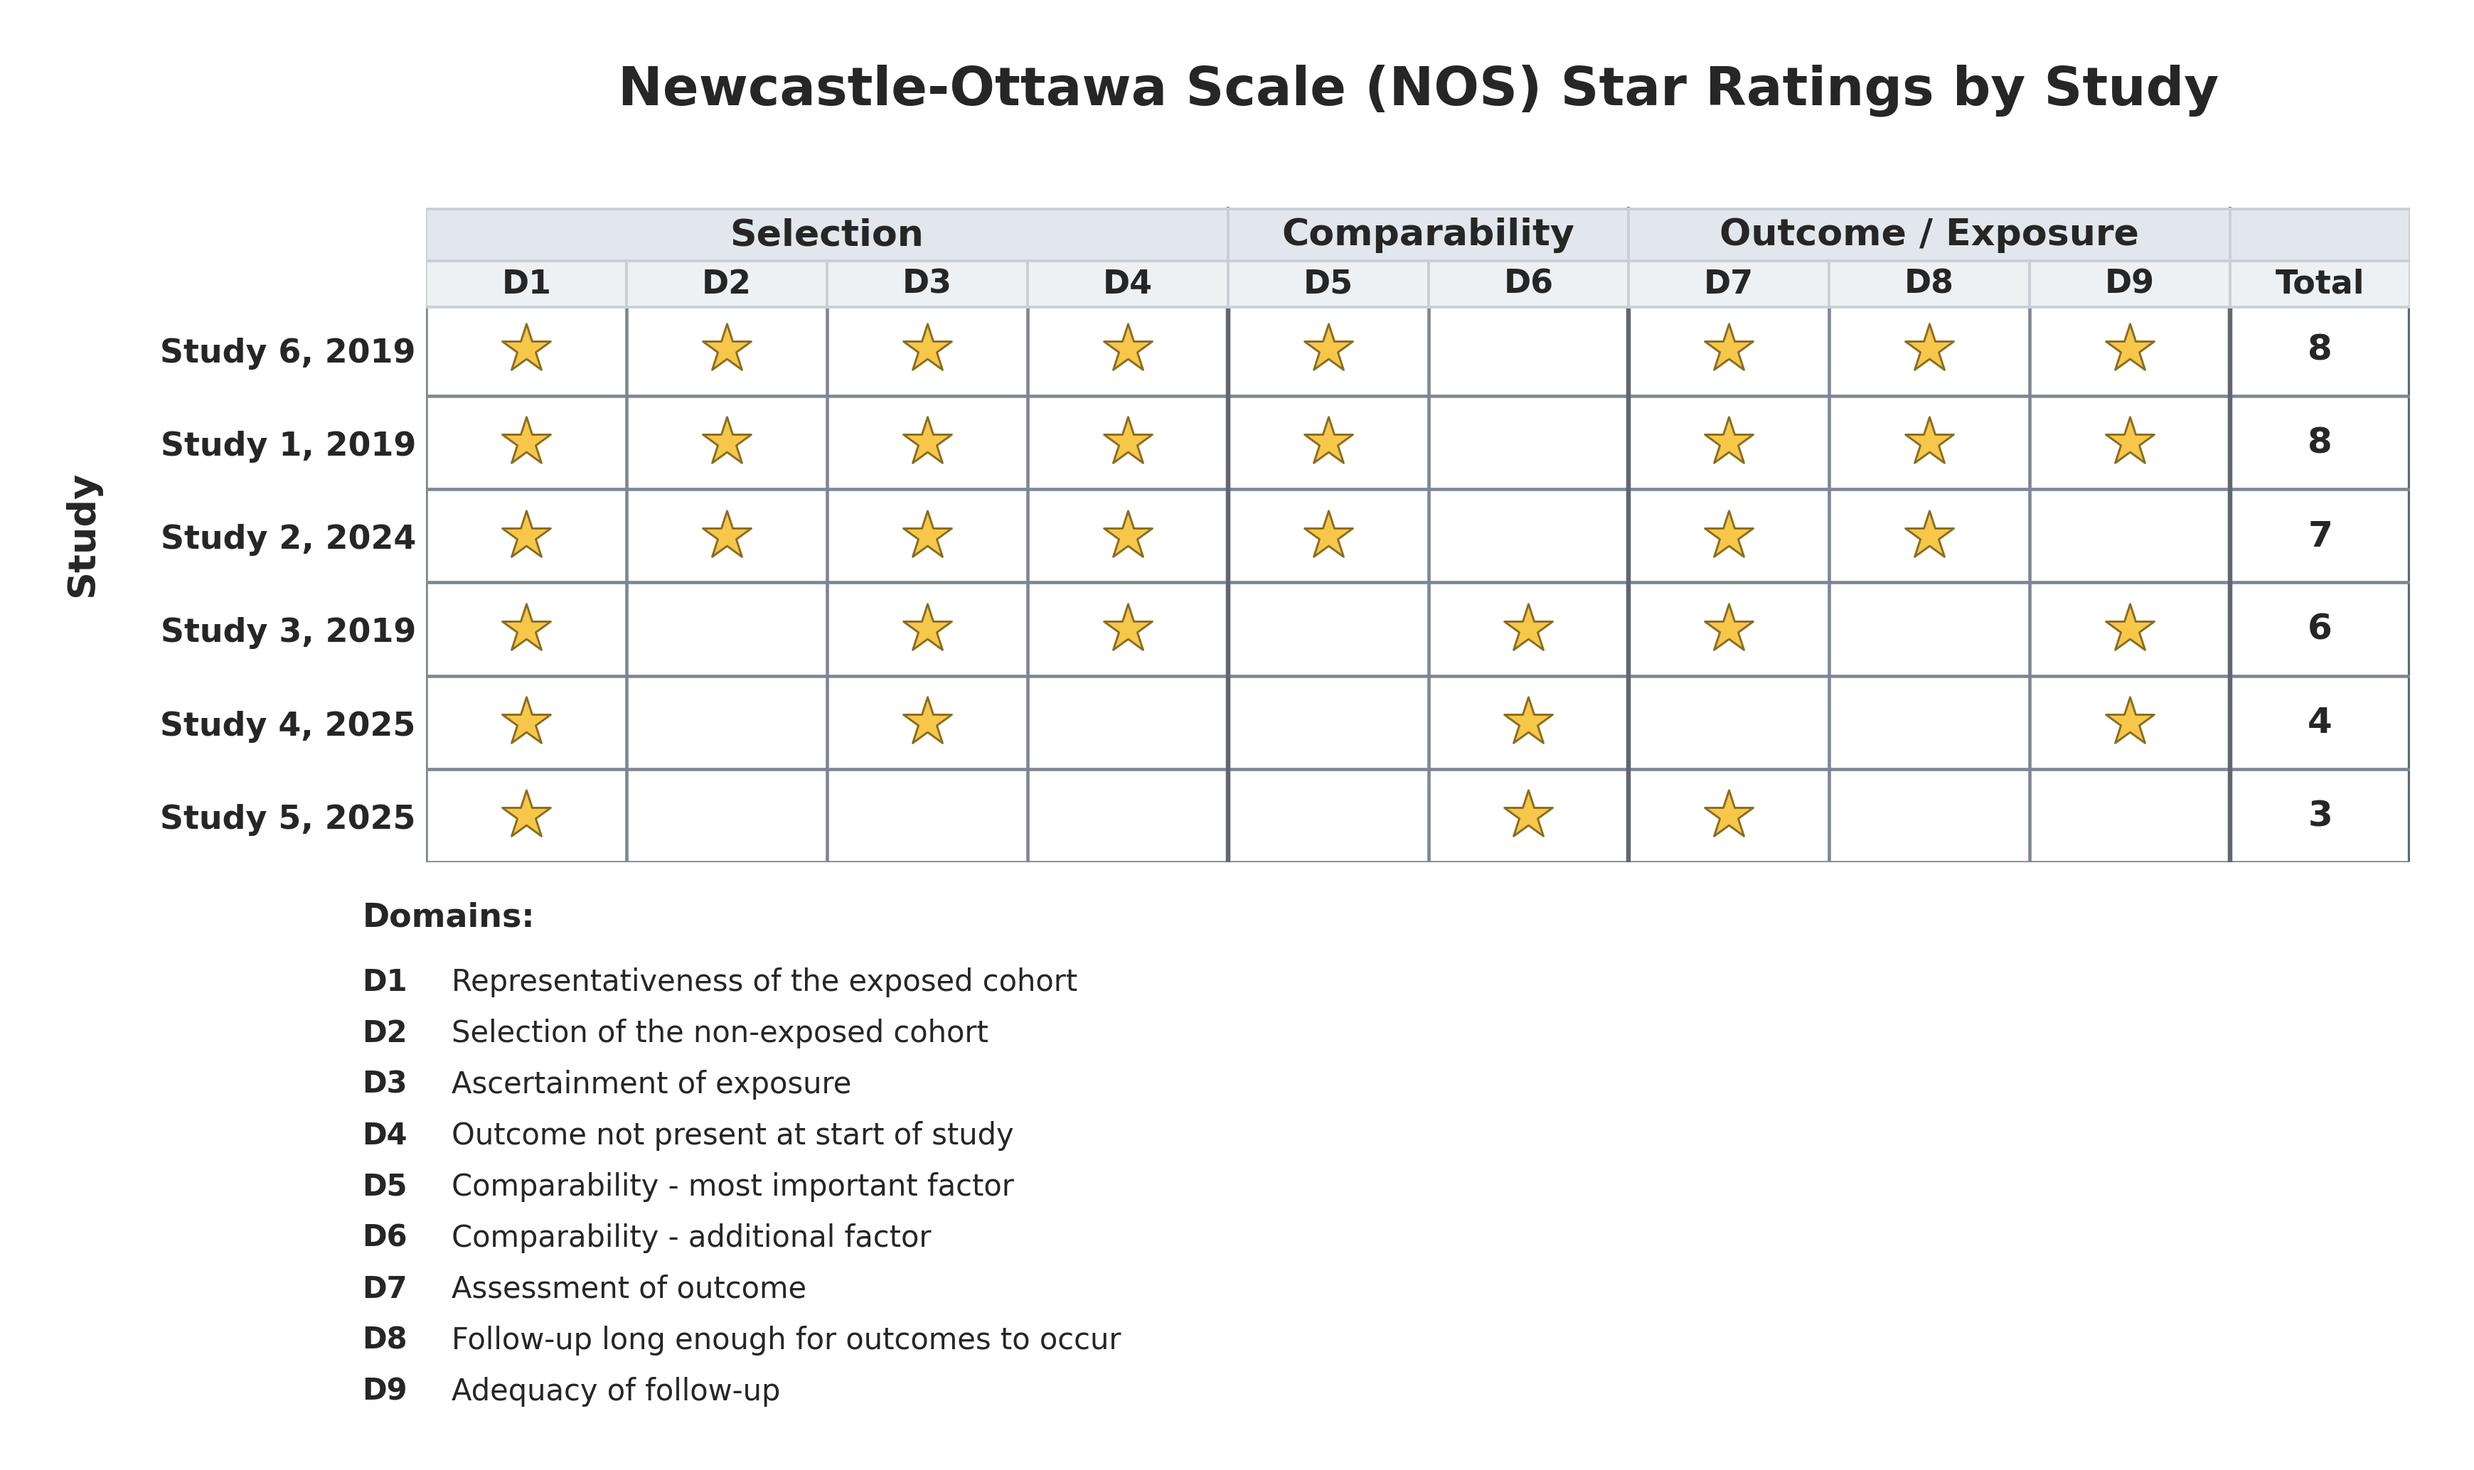
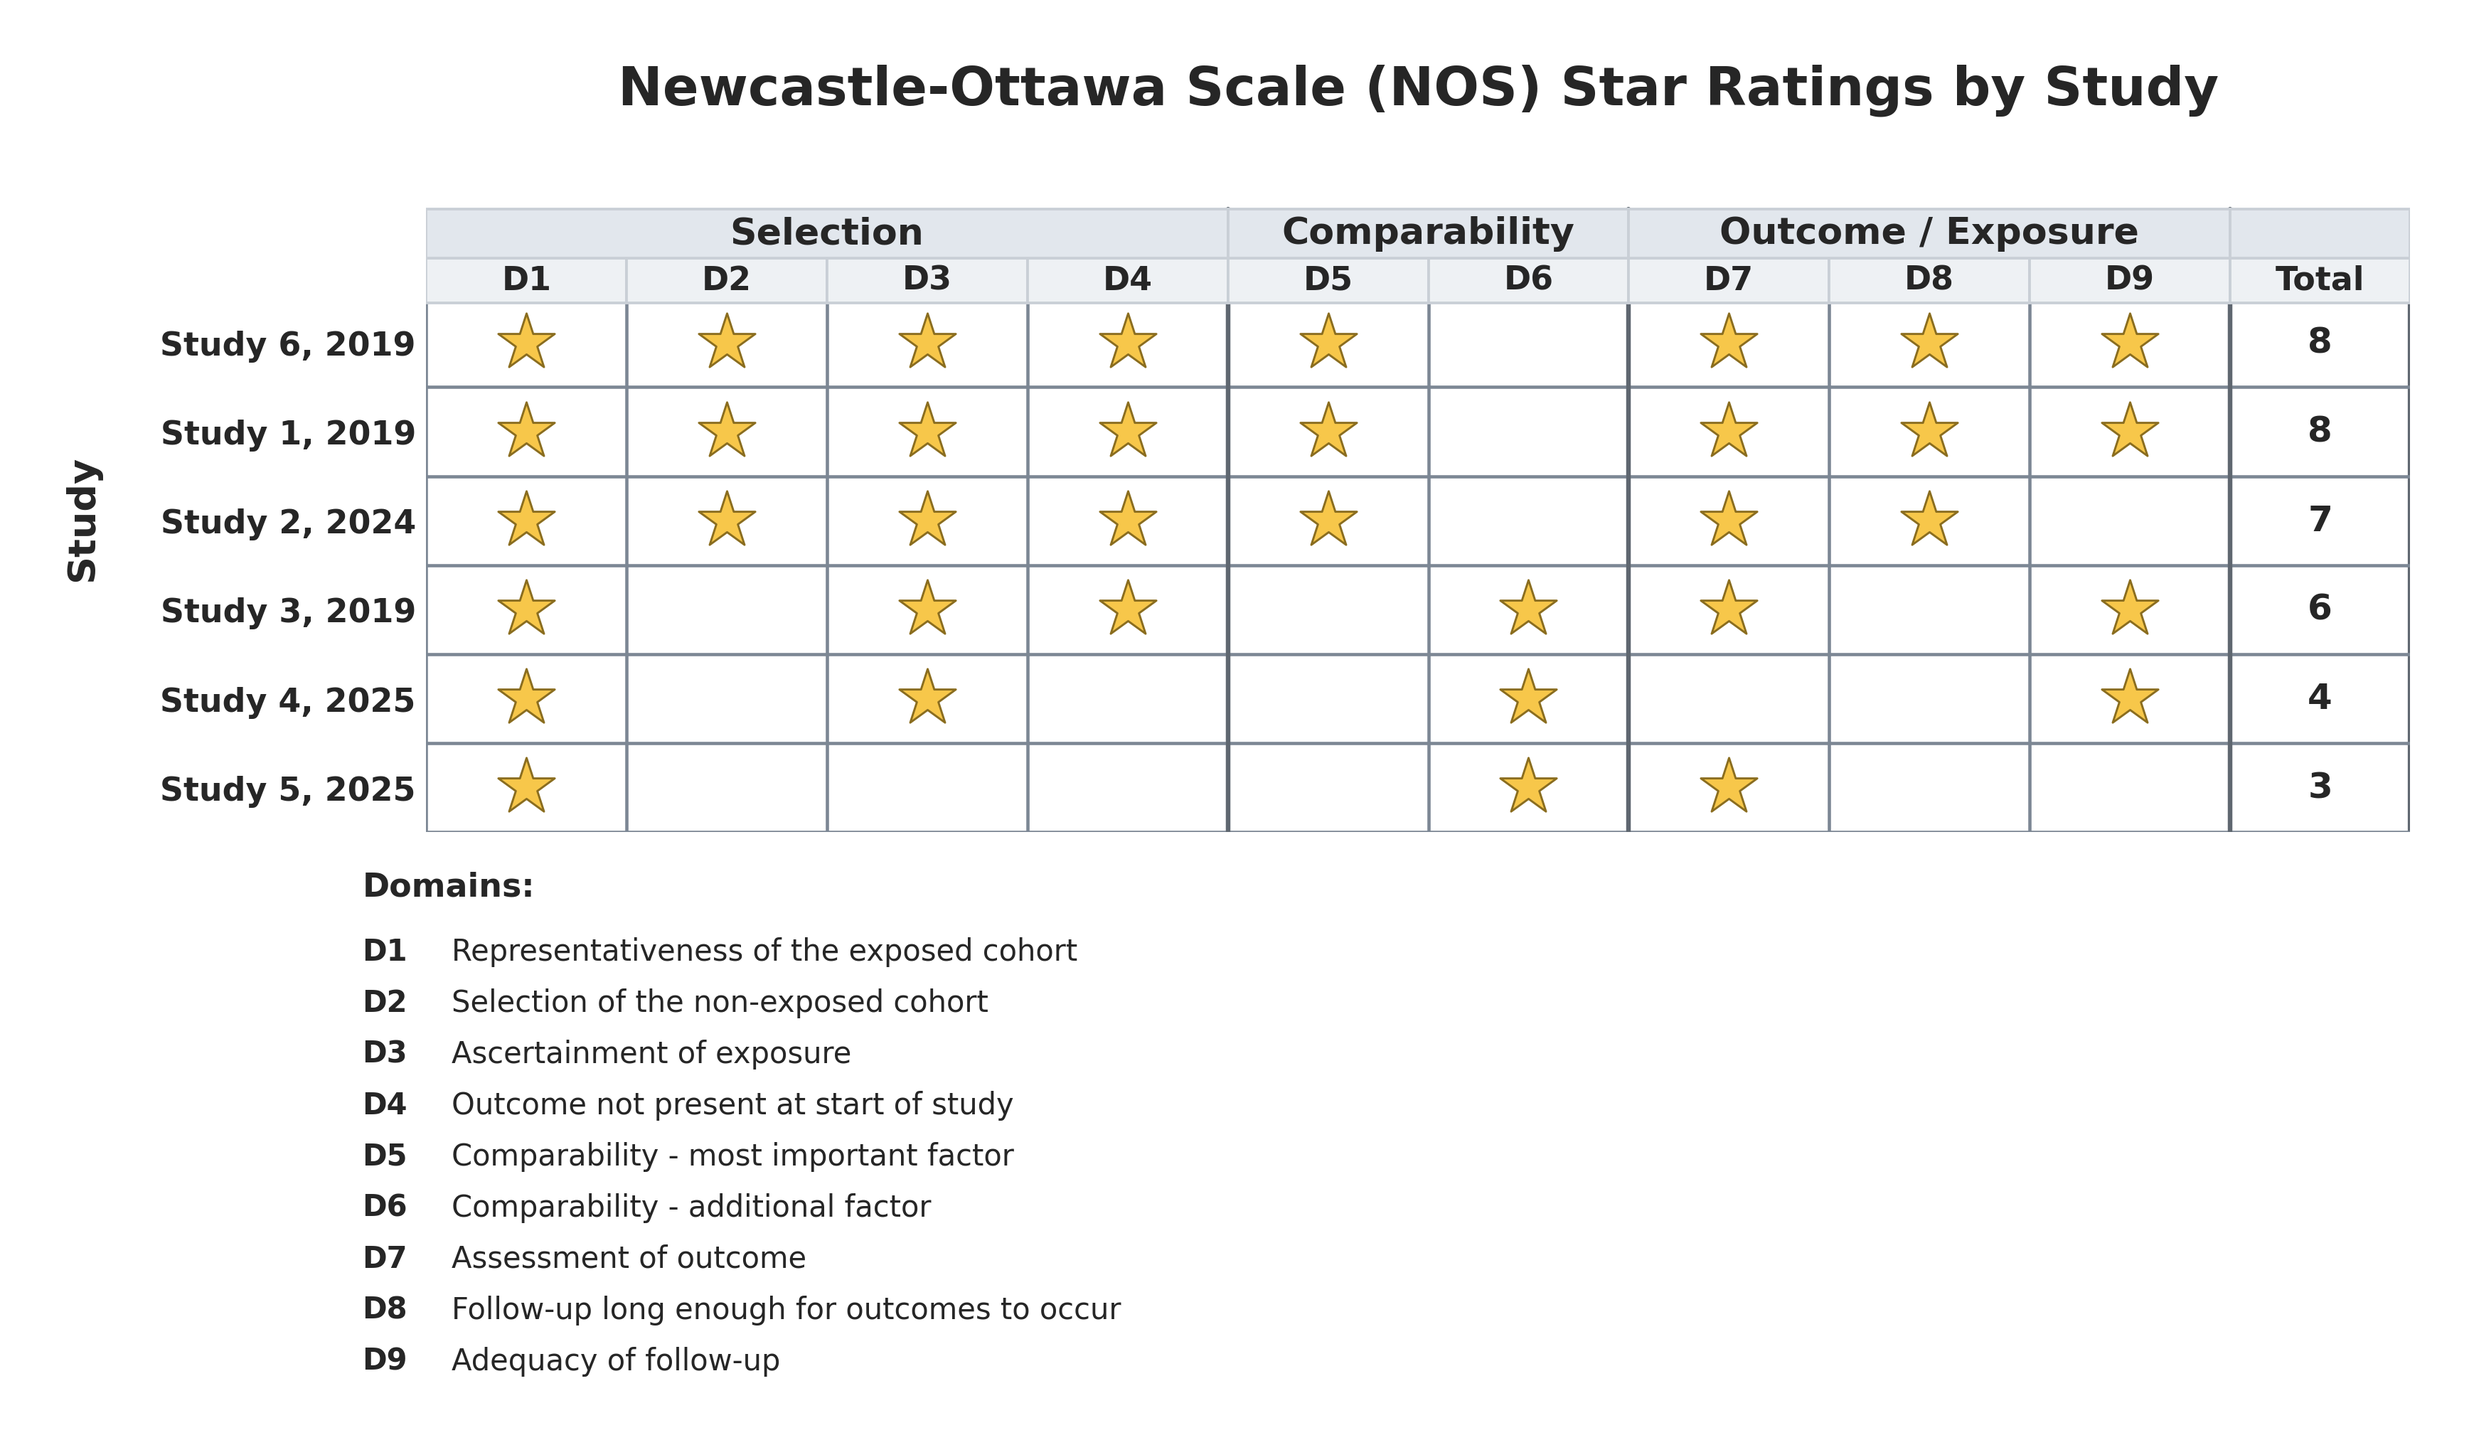
footer spacing fixes for item heatmap and star matrix

diff --git a/nos_tlplot.py b/nos_tlplot.py
@@ -511,7 +511,7 @@ def plot_item_heatmap(df: pd.DataFrame, output_file: str, theme: str = "traffic_
     cmap = mcolors.ListedColormap([item_colors[0], item_colors[1], item_colors[2]])
     norm = mcolors.BoundaryNorm([-0.5, 0.5, 1.5, 2.5], cmap.N)
 
-    fig_height = max(6, 0.8 * n + 3.4)
+    fig_height = max(6, 0.8 * n + 4.6)
     fig, ax = plt.subplots(figsize=(10, fig_height))
 
     sns.heatmap(heatmap_df, cmap=cmap, norm=norm, linewidths=2.5, linecolor='white',
@@ -534,7 +534,7 @@ def plot_item_heatmap(df: pd.DataFrame, output_file: str, theme: str = "traffic_
 
     ax.set_yticks([i + 0.5 for i in range(n)])
     ax.set_yticklabels([f"{name} (Total: {int(t)}/9)"
-                        for name, t in zip(df["Author, Year"], df["Total Score"])], fontsize=9.5)
+                        for name, t in zip(df["Author, Year"], df["Total Score"])], fontsize=9.5, rotation=0)
     ax.set_xticks([i + 0.5 for i in range(len(item_cols))])
     ax.set_xticklabels([code for _, code, _ in NOS_ITEMS], fontsize=10, rotation=0)
 
@@ -552,9 +552,9 @@ def plot_item_heatmap(df: pd.DataFrame, output_file: str, theme: str = "traffic_
         text.set_fontweight('normal')
     fig_legend.get_title().set_fontweight('bold')
 
-    plt.subplots_adjust(bottom=2.9 / fig.get_size_inches()[1])
-    fig.text(0.10, 2.6 / fig.get_size_inches()[1], "Domains:", fontsize=11, fontweight="bold")
-    y_footer = 2.3 / fig.get_size_inches()[1]
+    plt.subplots_adjust(bottom=4.1 / fig.get_size_inches()[1])
+    fig.text(0.10, 3.55 / fig.get_size_inches()[1], "Domains:", fontsize=11, fontweight="bold")
+    y_footer = 3.25 / fig.get_size_inches()[1]
     for name, code, desc in NOS_ITEMS:
         fig.text(0.10, y_footer, code, fontsize=10, fontweight="bold")
         fig.text(0.135, y_footer, desc, fontsize=10, fontweight="normal")
@@ -727,7 +727,7 @@ def plot_line_ordered_scores(df: pd.DataFrame, output_file: str, theme: str = "t
     df_sorted = df.sort_values("Total Score").reset_index(drop=True)
     n = len(df_sorted)
 
-    fig, ax = plt.subplots(figsize=(12, 0.5 * n + 3.8))
+    fig, ax = plt.subplots(figsize=(12, 0.5 * n + 5.0))
 
     for i in range(10):
         x = -0.5 + i
@@ -781,9 +781,9 @@ def plot_line_ordered_scores(df: pd.DataFrame, output_file: str, theme: str = "t
         s.set_visible(False)
     ax.set_title("Newcastle-Ottawa Scale (NOS) Star Ratings by Study", fontsize=18, pad=34)
 
-    plt.subplots_adjust(bottom=2.9 / fig.get_size_inches()[1])
-    fig.text(0.10, 2.6 / fig.get_size_inches()[1], "Domains:", fontsize=11, fontweight="bold")
-    y_footer = 2.3 / fig.get_size_inches()[1]
+    plt.subplots_adjust(bottom=4.1 / fig.get_size_inches()[1])
+    fig.text(0.10, 3.8 / fig.get_size_inches()[1], "Domains:", fontsize=11, fontweight="bold")
+    y_footer = 3.5 / fig.get_size_inches()[1]
     for name, code, desc in NOS_ITEMS:
         fig.text(0.10, y_footer, code, fontsize=10, fontweight="bold")
         fig.text(0.135, y_footer, desc, fontsize=10, fontweight="normal")
